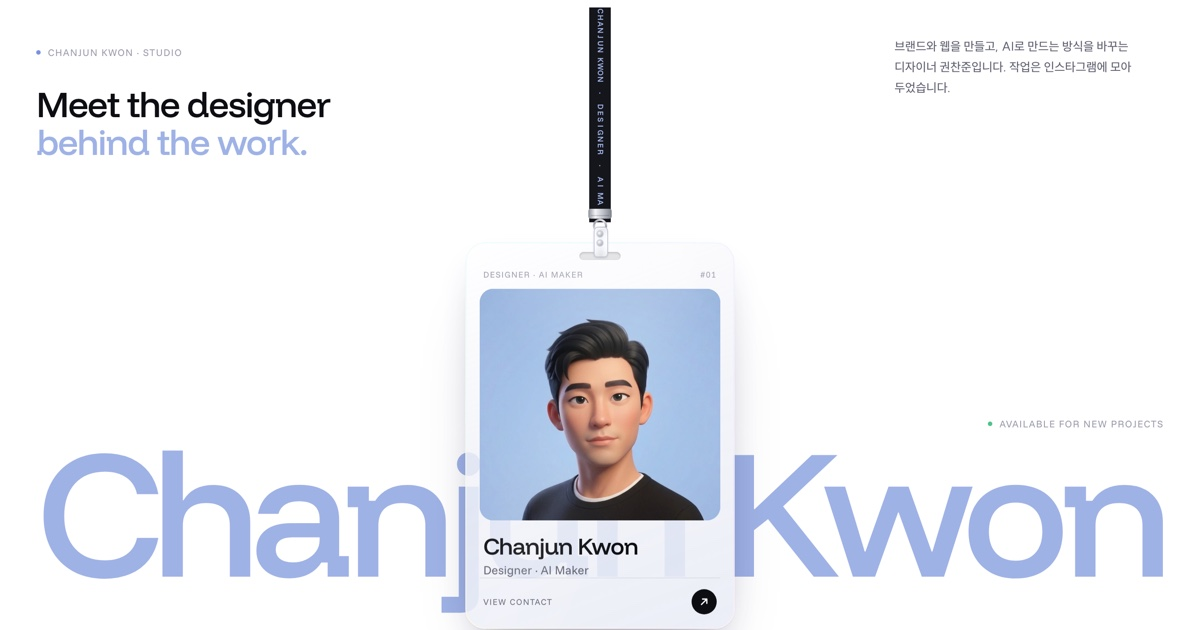
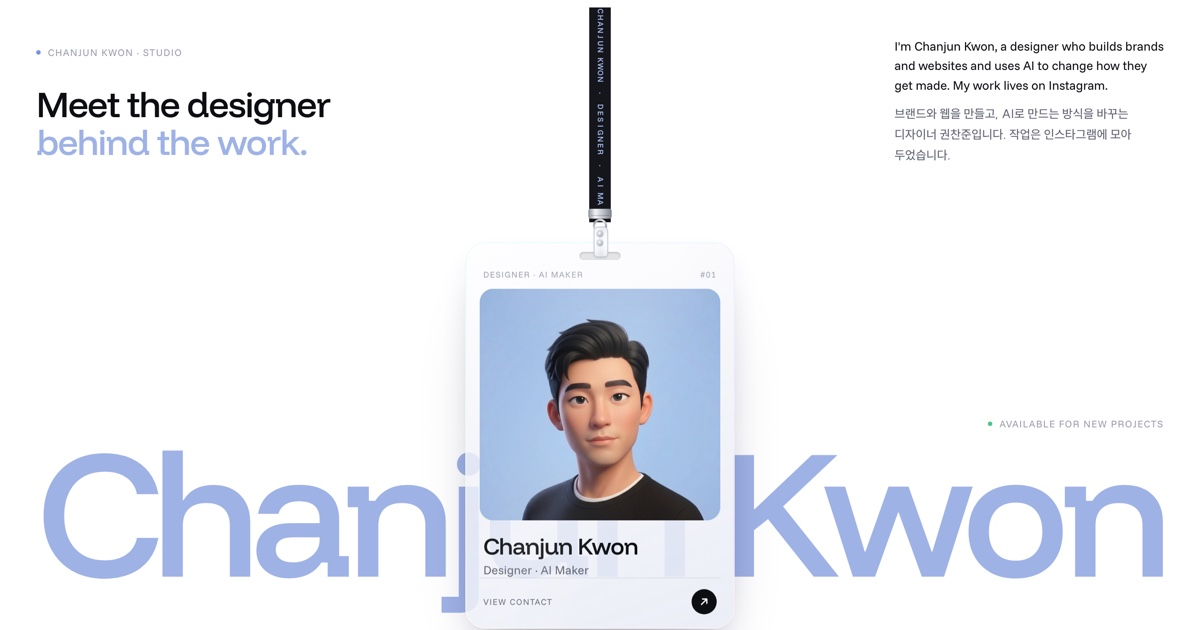
Add English intro to the hero and refresh the preview image

Changed region(s): [[0.74, 0.0603, 0.9867, 0.2714]]

diff --git a/index.html b/index.html
@@ -224,6 +224,9 @@ h1 span{display:block;color:var(--soft)}
 .copy h1{grid-column:1;grid-row:2;margin-top:18px;font-size:clamp(30px,3vw,44px);line-height:1.05;letter-spacing:-.03em;max-width:12em}
 .copy .intro{grid-column:2;grid-row:1 / 3;align-self:start;justify-self:end;margin-top:0;max-width:300px;font-size:13.5px}
 .copy .meta{grid-column:2;grid-row:4;justify-self:end;margin:0 0 10px}
+.copy .intro span{display:block}
+.copy .intro .en{font-family:var(--f-en);font-size:14px;line-height:1.55;color:var(--ink);letter-spacing:-.005em}
+.copy .intro .ko{margin-top:10px;color:var(--ink-2)}
 .copy .mark{grid-column:1 / -1;grid-row:5;margin:0;font-family:var(--f-disp);font-weight:500;font-size:14vw;line-height:.78;letter-spacing:-.055em;
   color:var(--soft);white-space:nowrap;width:max-content;justify-self:start}
 @media (max-width:820px){
@@ -278,7 +281,7 @@ h1 span{display:block;color:var(--soft)}
   <section class="copy">
     <p class="eyebrow"><i></i>Chanjun Kwon · Studio</p>
     <h1>Meet the designer<span>behind the work.</span></h1>
-    <p class="intro">브랜드와 웹을 만들고, AI로 만드는 방식을 바꾸는 디자이너 권찬준입니다. 작업은 인스타그램에 모아 두었습니다.</p>
+    <p class="intro"><span class="en" lang="en">I'm Chanjun Kwon, a designer who builds brands and websites and uses AI to change how they get made. My work lives on Instagram.</span><span class="ko">브랜드와 웹을 만들고, AI로 만드는 방식을 바꾸는 디자이너 권찬준입니다. 작업은 인스타그램에 모아 두었습니다.</span></p>
     <p class="meta"><i></i>Available for new projects</p>
     <p class="mark" aria-hidden="true">Chanjun Kwon</p>
   </section>
